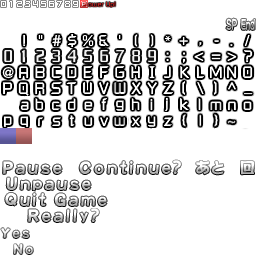
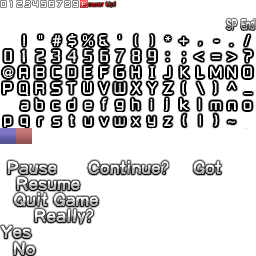
script latin asset

Changed region(s): [[0.0, 0.5938, 0.7188, 1.0], [0.75, 0.625, 0.875, 0.6875], [0.9375, 0.625, 1.0, 0.6875]]

diff --git a/BossDisplayFixes/files.js b/BossDisplayFixes/files.js
@@ -7,7 +7,7 @@
 	"global.js": 327920362,
 	"patch.js": 538700351,
 	"st07bs.ecl": null,
-	"th06/ascii.png": 4081611862,
+	"th06/ascii.png": 1870067430,
 	"th06/asciis.png": 1578638469,
 	"th06/border.wav": null,
 	"th06/cancel00.wav": null,
